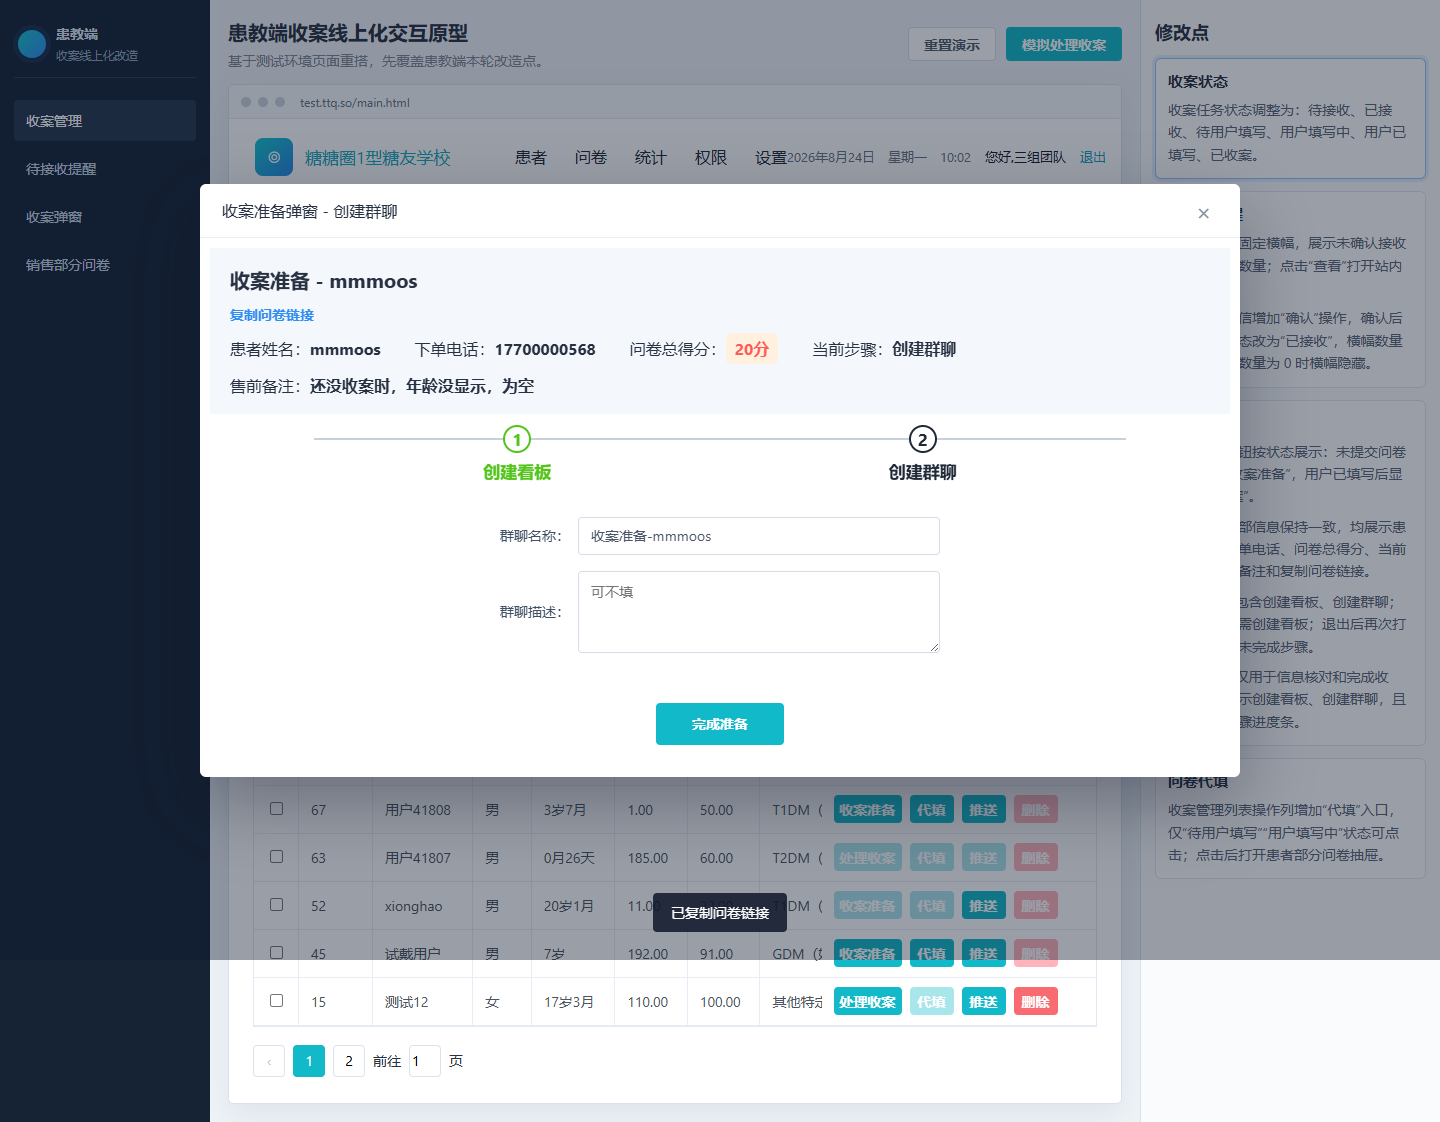
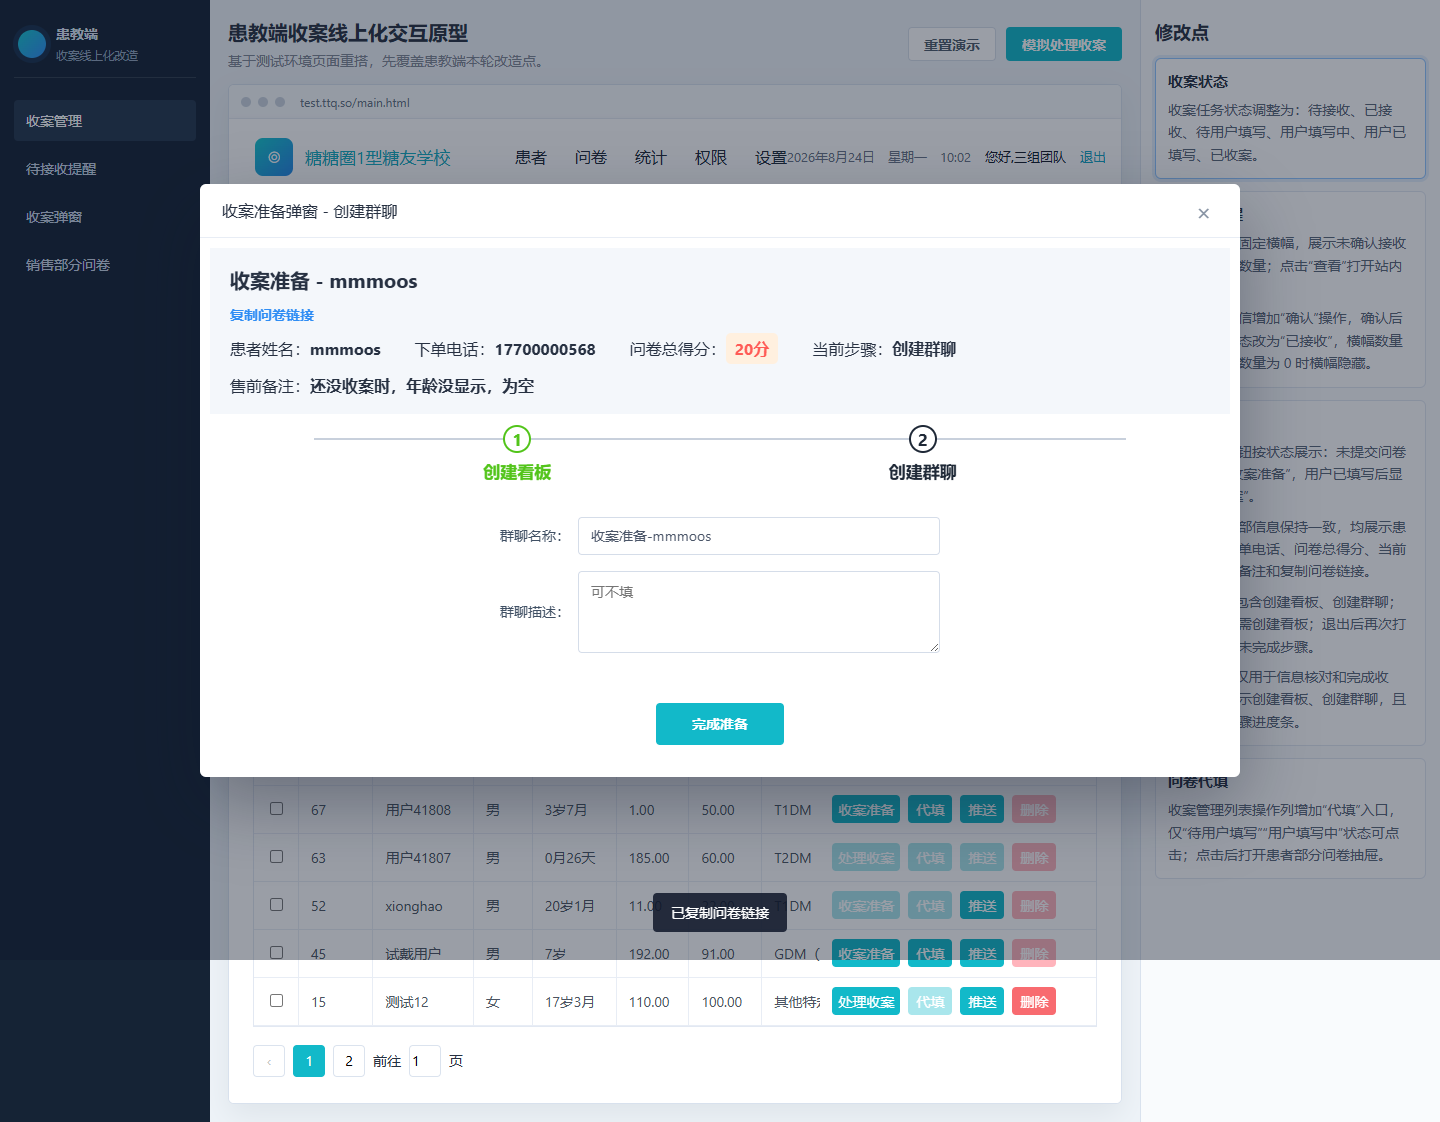
Normalize table status and action text styles

diff --git a/styles.css b/styles.css
@@ -394,35 +394,24 @@ button {
 }
 
 .status {
-  display: inline-flex;
-  align-items: center;
-  height: 24px;
-  padding: 0 9px;
-  border-radius: 14px;
-  color: #2563eb;
-  background: #eaf2ff;
-  font-weight: 600;
-  font-size: 12px;
+  color: #4b5563;
+  font-weight: 400;
 }
 
 .status.green {
-  color: #16803c;
-  background: #eaf8ef;
+  color: #4b5563;
 }
 
 .status.gray {
-  color: #64748b;
-  background: #eef2f6;
+  color: #4b5563;
 }
 
 .status.orange {
-  color: #b85d00;
-  background: #fff3e0;
+  color: #4b5563;
 }
 
 .status.purple {
-  color: #6d28d9;
-  background: #f1e8ff;
+  color: #4b5563;
 }
 
 .row-actions {
@@ -438,7 +427,7 @@ button {
   border-radius: 4px;
   color: #fff;
   background: var(--cyan);
-  font-weight: 600;
+  font-weight: 400;
 }
 
 .row-actions button[disabled] {
